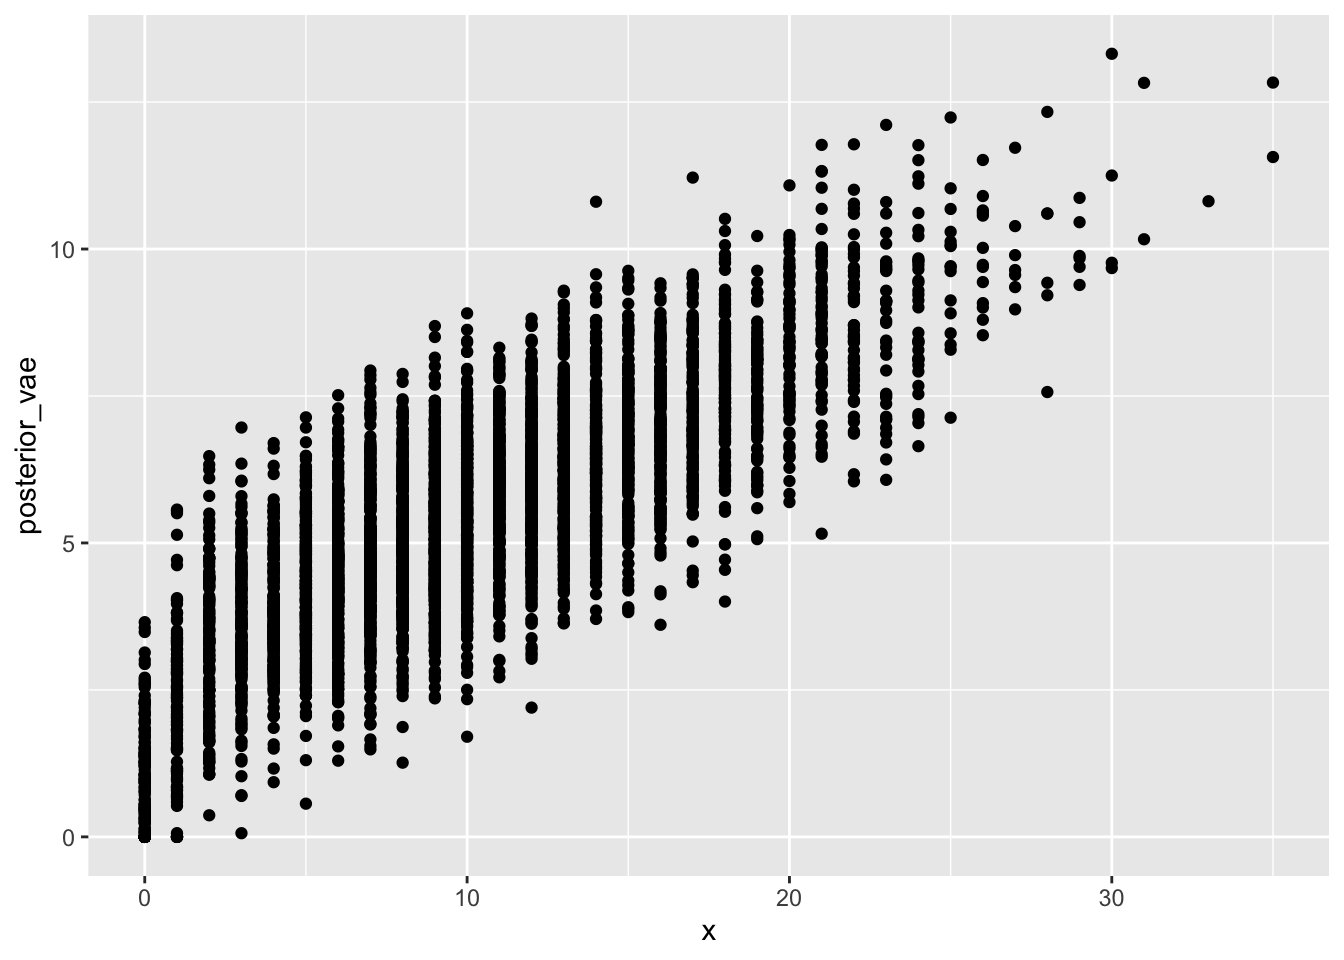
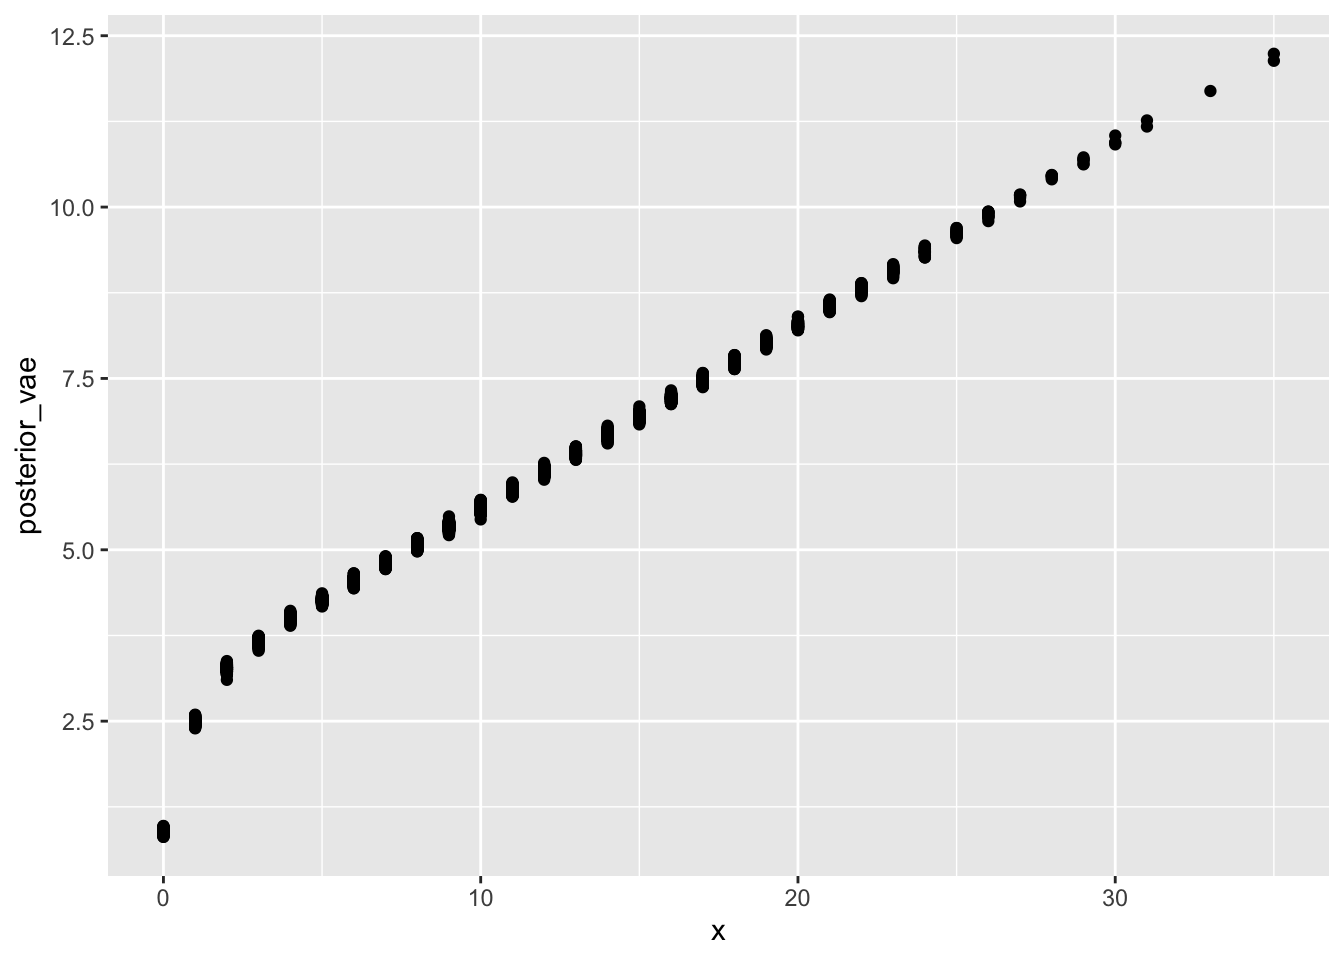
Build site.

diff --git a/docs/Compare_ebvaepm_ebpm.html b/docs/Compare_ebvaepm_ebpm.html
@@ -536,10 +536,10 @@ This reproducible <a href="http://rmarkdown.rstudio.com">R Markdown</a> analysis
 <div class="panel panel-default">
 <div class="panel-heading">
 <p class="panel-title">
-<a data-toggle="collapse" data-parent="#workflowr-checks" href="#strongRepositoryversionstrongahrefhttpsgithubcomzihao12ebpmfdemotree234f9afed09a3b6de483a5faa0c3b45a4942f806targetblank234f9afa"> <span class="glyphicon glyphicon-ok text-success" aria-hidden="true"></span> <strong>Repository version:</strong> <a href="https://github.com/zihao12/ebpmf_demo/tree/234f9afed09a3b6de483a5faa0c3b45a4942f806" target="_blank">234f9af</a> </a>
+<a data-toggle="collapse" data-parent="#workflowr-checks" href="#strongRepositoryversionstrongahrefhttpsgithubcomzihao12ebpmfdemotree7fbc1f96ce0b27388ed75780dc16e6bca5ef7748targetblank7fbc1f9a"> <span class="glyphicon glyphicon-ok text-success" aria-hidden="true"></span> <strong>Repository version:</strong> <a href="https://github.com/zihao12/ebpmf_demo/tree/7fbc1f96ce0b27388ed75780dc16e6bca5ef7748" target="_blank">7fbc1f9</a> </a>
 </p>
 </div>
[2 lines of base64/hex data omitted]
 <div class="panel-body">
 <p>
 Great! You are using Git for version control. Tracking code development and connecting the code version to the results is critical for reproducibility. The version displayed above was the version of the Git repository at the time these results were generated. <br><br> Note that you need to be careful to ensure that all relevant files for the analysis have been committed to Git prior to generating the results (you can use <code>wflow_publish</code> or <code>wflow_git_commit</code>). workflowr only checks the R Markdown file, but you know if there are other scripts or data files that it depends on. Below is the status of the Git repository when the results were generated:
@@ -566,6 +566,7 @@ Untracked files:
 Unstaged changes:
     Modified:   analysis/ebpmf_rank1_demo.Rmd
     Modified:   analysis/ebpmf_rankk_demo.Rmd
+    Modified:   analysis/ebvae-poisson-normal.ipynb
     Modified:   analysis/softmax_experiments.Rmd
 
 </code></pre>
@@ -605,6 +606,40 @@ Message
 </tr>
 </thead>
 <tbody>
+<tr>
+<td>
+Rmd
+</td>
+<td>
+<a href="https://github.com/zihao12/ebpmf_demo/blob/7fbc1f96ce0b27388ed75780dc16e6bca5ef7748/analysis/Compare_ebvaepm_ebpm.Rmd" target="_blank">7fbc1f9</a>
+</td>
+<td>
+zihao12
+</td>
+<td>
+2019-10-23
+</td>
+<td>
+update Compare_ebvaepm_ebpm.Rmd
+</td>
+</tr>
+<tr>
+<td>
+html
+</td>
+<td>
+<a href="https://rawcdn.githack.com/zihao12/ebpmf_demo/66940d1b864842d0726481b457d1cba199b43639/docs/Compare_ebvaepm_ebpm.html" target="_blank">66940d1</a>
+</td>
+<td>
+zihao12
+</td>
+<td>
+2019-10-23
+</td>
+<td>
+Build site.
+</td>
+</tr>
 <tr>
 <td>
 html
@@ -714,38 +749,20 @@ compare vae with ebpm
 </div>
 </div>
 </div>
+<p>Here I show and compare the results from <code>ebvae_pm</code> and <code>ebpmf</code>. <code>ebvae_pm</code> was implemented and experimented here: <a href="https://zihao12.github.io/ebpmf_demo/ebvae-poisson-normal.html" class="uri">https://zihao12.github.io/ebpmf_demo/ebvae-poisson-normal.html</a> .</p>
+<p>Now <code>ebvae_pm</code> does much worse even than the <code>mle</code>. It seems to be shrinking too much.</p>
 <pre class="r"><code>devtools::load_all(&quot;../ebpm&quot;)</code></pre>
-<pre><code>Warning: 1 components of `...` were not used.
-
-We detected these problematic arguments:
-* `action`
-
-Did you misspecify an argument?</code></pre>
 <pre><code>Loading ebpm</code></pre>
-<pre><code>Warning: package &#39;testthat&#39; was built under R version 3.5.2</code></pre>
-<pre class="r"><code>library(ggplot2)</code></pre>
-<pre><code>Warning: package &#39;ggplot2&#39; was built under R version 3.5.2</code></pre>
-<pre class="r"><code>library(reticulate)</code></pre>
-<pre><code>Warning: package &#39;reticulate&#39; was built under R version 3.5.2</code></pre>
-<pre class="r"><code>use_python(&quot;/anaconda3/bin&quot;)
-py_config()</code></pre>
-<pre><code>python:         /anaconda3/bin/python3
-libpython:      /anaconda3/lib/libpython3.6m.dylib
-pythonhome:     /anaconda3:/anaconda3
-version:        3.6.8 |Anaconda, Inc.| (default, Dec 29 2018, 19:04:46)  [GCC 4.2.1 Compatible Clang 4.0.1 (tags/RELEASE_401/final)]
-numpy:          /anaconda3/lib/python3.6/site-packages/numpy
-numpy_version:  1.14.2
-
-NOTE: Python version was forced by RETICULATE_PYTHON</code></pre>
+<pre class="r"><code>library(ggplot2)
+library(reticulate)</code></pre>
 <div id="show-vae-results" class="section level2">
 <h2>show VAE results</h2>
 <pre class="r"><code>vae_out = py_load_object(&quot;data/poisson-normal.pkl&quot;, pickle = &quot;pickle&quot;)
 vae_out = data.frame(vae_out)
 
-
+## This is what data looks like
 ggplot(vae_out)+
-  geom_histogram(aes(x = x))</code></pre>
-<pre><code>`stat_bin()` using `bins = 30`. Pick better value with `binwidth`.</code></pre>
+  geom_histogram(aes(x = x), bins = 100)</code></pre>
 <p><img src="figure/Compare_ebvaepm_ebpm.Rmd/unnamed-chunk-2-1.png" width="672" style="display: block; margin: auto;" /></p>
 <p>
 <button type="button" class="btn btn-default btn-xs btn-workflowr btn-workflowr-fig" data-toggle="collapse" data-target="#fig-unnamed-chunk-2-1">
@@ -898,6 +915,18 @@ max(fit_ebpm$fitted_g$pi)</code></pre>
 <pre class="r"><code>## the mean  of the exponential component corresponding to the biggest weight
 fit_ebpm$fitted_g$scale[which.max(fit_ebpm$fitted_g$pi)]</code></pre>
 <pre><code>[1] 10.76347</code></pre>
+</div>
+<div id="compare-rmse" class="section level2">
+<h2>Compare RMSE</h2>
+<pre class="r"><code>## rmse(fit_vae, lam)
+sqrt(mean((vae_out$posterior_vae - vae_out$lam)^2))</code></pre>
+<pre><code>[1] 5.788469</code></pre>
+<pre class="r"><code>## rmse(fit_ebpm, lam)
+sqrt(mean((fit_ebpm$posterior$mean - vae_out$lam)^2))</code></pre>
+<pre><code>[1] 2.962624</code></pre>
+<pre class="r"><code>## rmse(mle, lam)
+sqrt(mean((vae_out$x- vae_out$lam)^2))</code></pre>
+<pre><code>[1] 3.197445</code></pre>
 <br>
 <p>
 <button type="button" class="btn btn-default btn-workflowr btn-workflowr-sessioninfo" data-toggle="collapse" data-target="#workflowr-sessioninfo" style="display: block;">
@@ -935,7 +964,7 @@ loaded via a namespace (and not attached):
 [25] labeling_0.3        knitr_1.25          callr_3.2.0        
 [28] ps_1.3.0            Rcpp_1.0.2          backports_1.1.5    
 [31] scales_1.0.0        desc_1.2.0          pkgload_1.0.2      
-[34] jsonlite_1.6        fs_1.3.1            digest_0.6.21      
+[34] jsonlite_1.6        fs_1.3.1            digest_0.6.22      
 [37] stringi_1.4.3       processx_3.3.1      dplyr_0.8.1        
 [40] rprojroot_1.3-2     grid_3.5.1          cli_1.1.0          
 [43] tools_3.5.1         magrittr_1.5        lazyeval_0.2.2     
